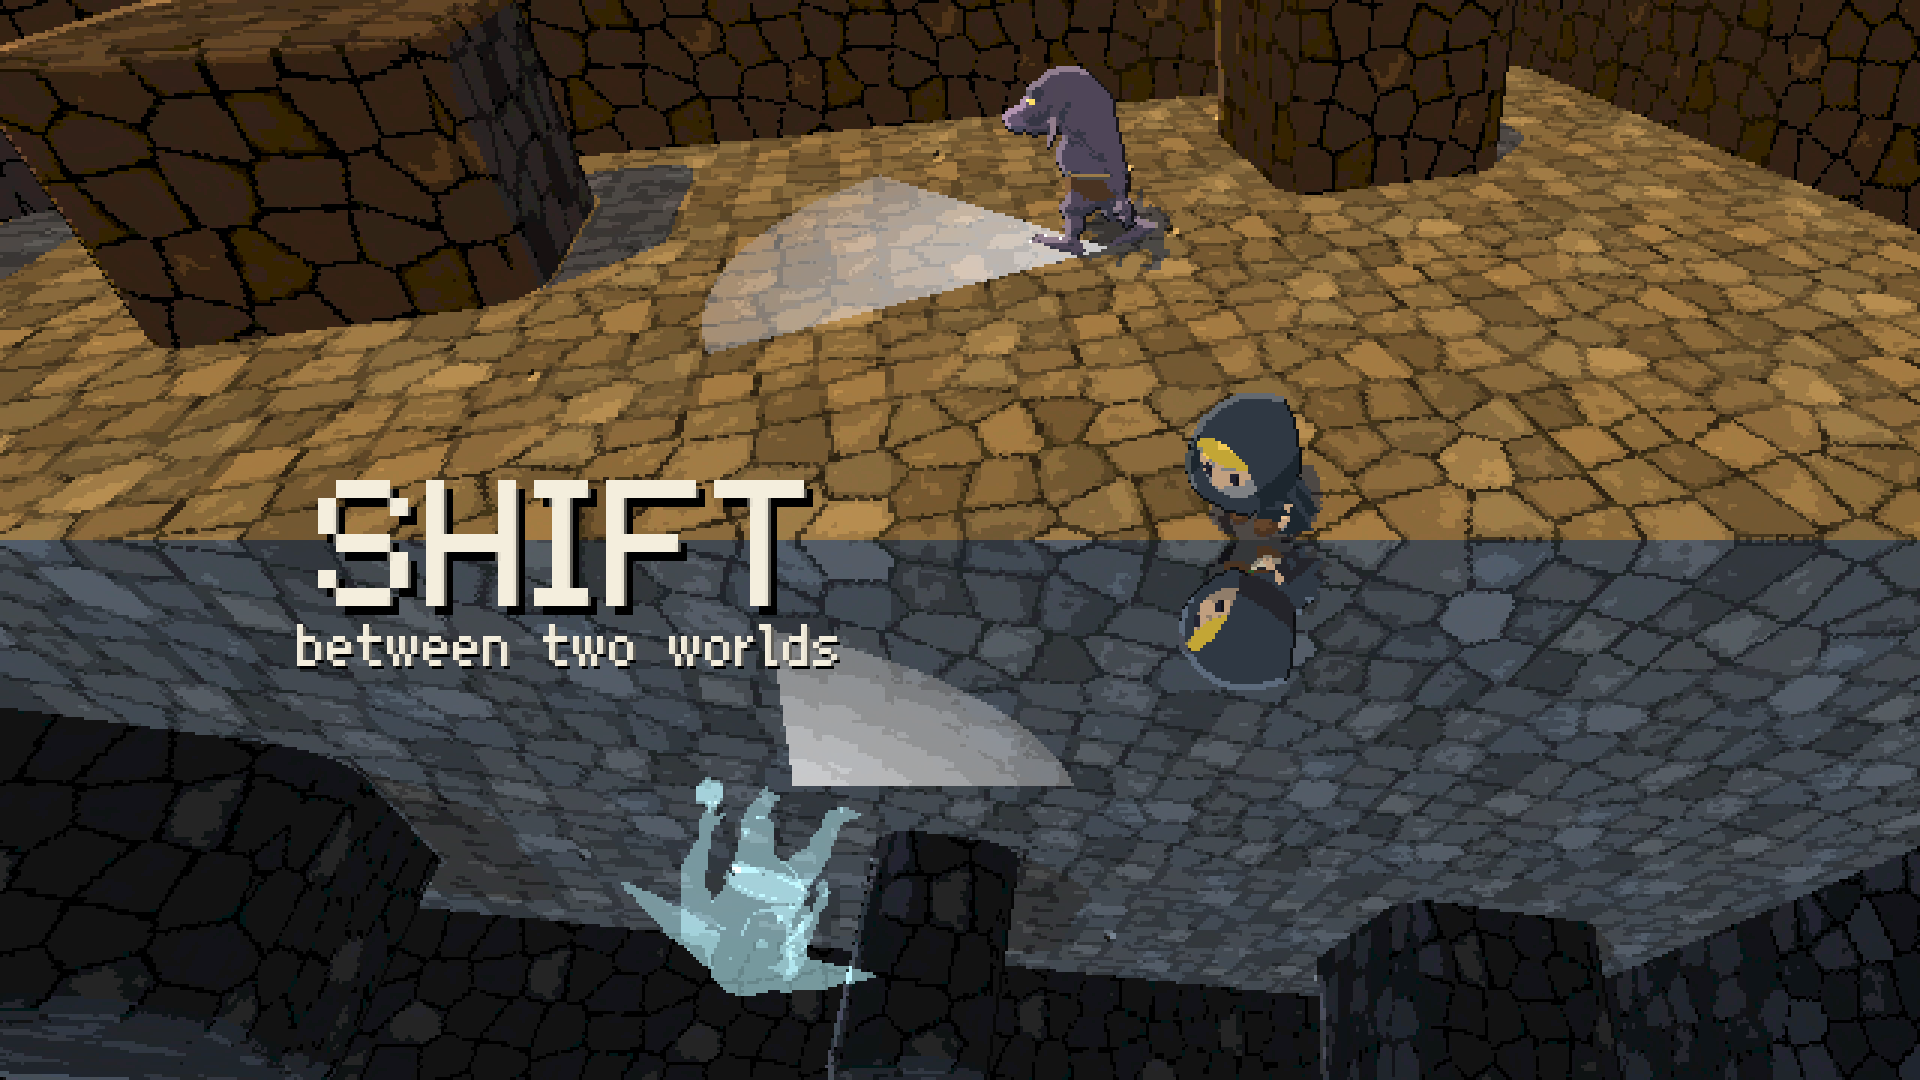
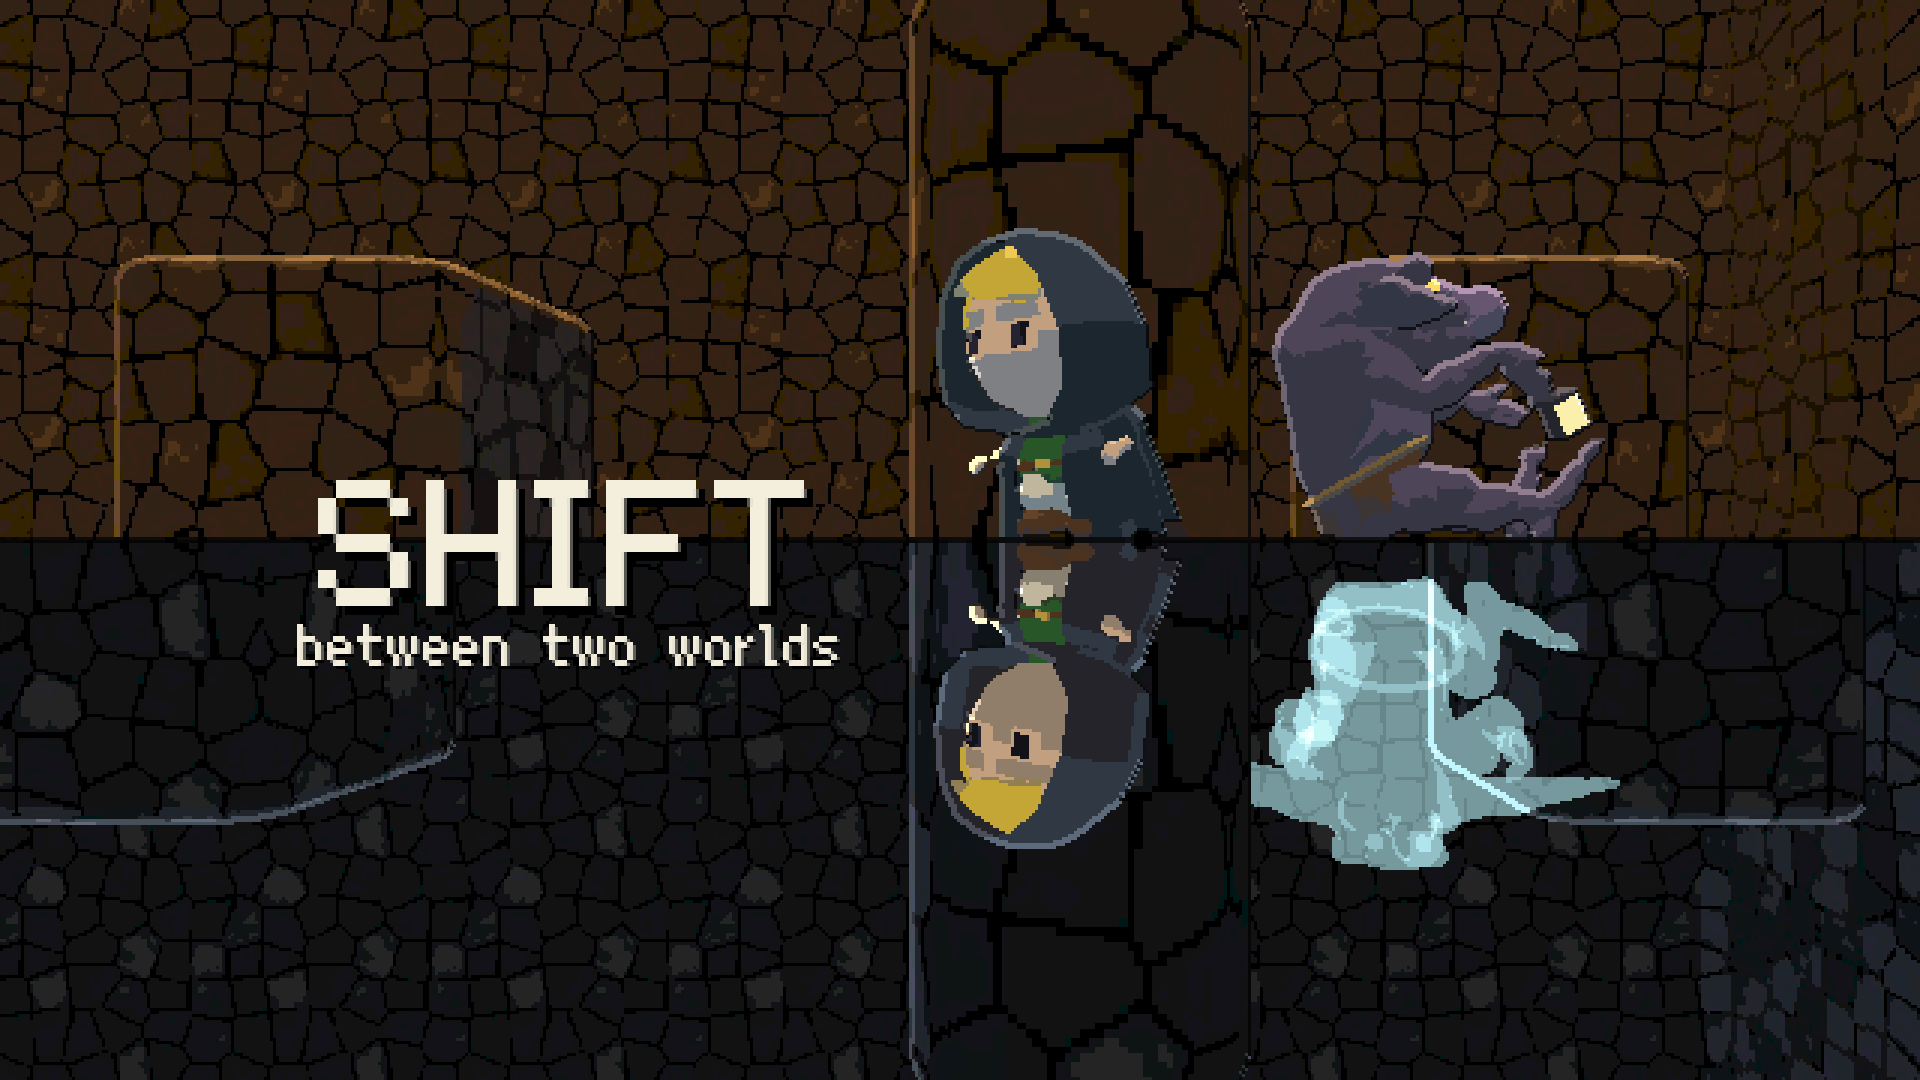
feat: shoot the cover from the floor, the hero against a pillar
- the camera sits on the floor looking straight along the grid, so each floor is one level line and the two meet at the seam
- the hero crouches against a pillar near the middle, with their reflection under the seam
- on the surface a troll sits with its back to the same pillar, legs out, looking right; the troll has no sitting clip, so the studio folds its legs over its idle every frame
- in the underside a ghost stands at the pillar looking out toward us
- the room is wider, so the left wall stays out of the picture
- the README describes the new picture

diff --git a/src/cover/main.ts b/src/cover/main.ts
@@ -2,82 +2,129 @@
  * Cover studio (cover.html, driven by scripts/cover.ts): the itch.io and README cover art, shot through the game's own
  * GameView so the walls, vision cones, outlines and rim light are exactly the ones in play.
  *
- * The picture is the two dimensions back to back. The top half is the surface (A): the hero, cloaked and crouching
- * near the seam, with a troll walking off behind them, its lantern's cone laid out ahead of it. The bottom half is the
- * underside (B) seen the same way and flipped upside down, so the two heroes meet feet to feet at the seam like a
- * reflection; there a ghost troll's cone reaches toward the hero and falls short. SHIFT and "between two worlds" sit
- * on the seam, left of the hero.
+ * The picture is the two dimensions back to back, seen from the floor itself (eye on the ground, no pitch, no yaw), so
+ * each floor is one flat line and the two meet at the seam. The top
+ * half is the surface (A): the hero, cloaked and crouching, keeps their back to a pillar while a troll walks off
+ * behind, its lantern's cone laid out ahead of it. The bottom half is the underside (B) seen the same way and flipped
+ * upside down, so the two heroes meet feet to feet at the seam like a reflection, each against their own pillar;
+ * there a ghost troll's cone reaches toward the hero and falls short. SHIFT and "between two worlds" sit on the seam,
+ * left of the hero.
  *
  * Each half is a frame of one hand-made level (not in levels/, so it is never played), rendered one screen pixel per
  * art pixel and cropped to place the hero; the halves, the title and the scale-up are composed on a 2D canvas.
  * window.cover.shoot(layout, scale) returns the finished PNG as a data URL.
  */
+import { PropertyBinding, Quaternion, Vector3, type Object3D } from 'three';
 import { parseLevel, type DimIndex, type Level } from '../core/level';
 import { Sim } from '../core/sim';
-import { loadModels } from '../render/models';
+import { loadModels, type CharacterInstance } from '../render/models';
 import { GameView } from '../render/view';
 
 /** The stage, both dimensions the same size: an open room, so the cones lie across bare floor. The hero stands at
  *  HERO in both, facing HERO_FACING; the pillars differ, as walls do between the dimensions in play. */
-const HERO: [number, number] = [8.5, 7.5];
-const HERO_FACING = (150 * Math.PI) / 180;
+const HERO: [number, number] = [12.5, 7.35];
+const HERO_FACING = (130 * Math.PI) / 180;
 const LEVEL = {
   format: 1,
   id: 'cover',
   name: 'cover',
-  size: { w: 15, h: 12 },
+  size: { w: 19, h: 12 },
   dimensions: [
     {
       rows: [
-        '###############',
-        '#.............#',
-        '#..##.....##..#',
-        '#..##.....##..#',
-        '#.............#',
-        '#.............#',
-        '#.............#',
-        '#.............#',
-        '#.............#',
-        '#.............#',
-        '#.....S.......#',
-        '###############',
+        '###################',
+        '#.................#',
+        '#......##.....##..#',
+        '#......##.....##..#',
+        '#.................#',
+        '#.................#',
+        '#...........#.....#',
+        '#.................#',
+        '#.................#',
+        '#.................#',
+        '#.........S.......#',
+        '###################',
       ],
       props: {},
-      // walking away from the hero toward the left, its cone stretched out ahead of it
-      monsters: [{ id: 'a', path: [[8, 4]], mode: 'pingpong', speed: 1.6, pause: 0.6, viewRadius: 5, viewAngle: 70, facing: 200 }],
+      // sitting on the floor with its back to the hero's pillar, looking off to the right, legs out ahead of it
+      monsters: [{ id: 'a', path: [[13, 6]], mode: 'pingpong', speed: 1.6, pause: 0.6, viewRadius: 5, viewAngle: 70, facing: 10 }],
     },
     {
       rows: [
-        '###############',
-        '#.............#',
-        '#.##...#...##.#',
-        '#.##...#...##.#',
-        '#.............#',
-        '#.............#',
-        '#.............#',
-        '#.............#',
-        '#.............#',
-        '#.............#',
-        '#.............#',
-        '###############',
+        '###################',
+        '#.................#',
+        '#.....##.......##.#',
+        '#.....##.......##.#',
+        '#.................#',
+        '#.................#',
+        '#...........#.....#',
+        '#.................#',
+        '#.................#',
+        '#.................#',
+        '#.................#',
+        '###################',
       ],
       props: {},
-      // a ghost on the far side, its cone swept toward the hero and falling just short
-      monsters: [{ id: 'b', path: [[6, 4]], mode: 'pingpong', speed: 1.6, pause: 0.6, viewRadius: 3.5, viewAngle: 70, facing: 56 }],
+      // a ghost standing at the hero's pillar, looking out toward us, over the hero
+      monsters: [{ id: 'b', path: [[13, 6]], mode: 'pingpong', speed: 1.6, pause: 0.6, viewRadius: 5, viewAngle: 70, facing: 100 }],
     },
   ],
 };
 
+/** Where each monster stands, off the cell centres its path allows: right up against the pillar (whose right face is
+ *  x = 13). */
+const MONSTER_AT: Record<string, [number, number]> = { a: [13.4, 6.5], b: [13.45, 6.5] };
+
+/** The troll has no sitting clip: SIT poses it over its idle, every frame after the mixer. The body drops by `drop`;
+ *  each thigh swings forward and each shin back (radians, about the troll's own left-right axis). */
+const SIT = { who: 'a', drop: 0, thigh: 0.75, shin: 0.5 };
+const _q = new Quaternion();
+const _p = new Quaternion();
+const _axis = new Vector3();
+
+/** Turn a bone about a world axis, keeping its parent where it is. */
+function turnBone(bone: Object3D, axis: Vector3, angle: number): void {
+  bone.parent!.getWorldQuaternion(_p);
+  _q.setFromAxisAngle(axis, angle);
+  // local' = parent⁻¹ · q · parent · local
+  bone.quaternion.premultiply(_p.clone().invert().multiply(_q).multiply(_p));
+  bone.updateMatrixWorld(true);
+}
+
+/** Seat a troll: after its own update each frame, lower it and fold its legs. The idle clip does not move the legs,
+ *  so they are put back to their rest pose first; otherwise the turns would pile up frame on frame. */
+function seat(body: CharacterInstance): void {
+  const root = body.root;
+  // the loader drops the dots from Blender's bone names (thigh.L -> thighL)
+  const bone = (name: string) => root.getObjectByName(PropertyBinding.sanitizeNodeName(name))!;
+  const legs = ['L', 'R'].map((side) => ({ thigh: bone(`thigh.${side}`), shin: bone(`shin.${side}`) }));
+  const rest = legs.map((l) => [l.thigh.quaternion.clone(), l.shin.quaternion.clone()]);
+  const update = body.update.bind(body);
+  body.update = (dt: number) => {
+    update(dt);
+    root.position.y -= SIT.drop;
+    root.updateMatrixWorld(true);
+    // the model faces +x, so its left-right axis is its z
+    _axis.set(0, 0, 1).applyQuaternion(root.getWorldQuaternion(new Quaternion()));
+    legs.forEach((l, i) => {
+      l.thigh.quaternion.copy(rest[i][0]);
+      l.shin.quaternion.copy(rest[i][1]);
+      l.thigh.updateMatrixWorld(true);
+      turnBone(l.thigh, _axis, SIT.thigh);
+      turnBone(l.shin, _axis, SIT.shin);
+    });
+  };
+}
+
 /** One half of the picture: which dimension, the camera, and where in the rendered frame the half is cut from. */
 interface Half {
   dim: DimIndex;
-  /** Grid angle the camera looks along (radians), and its pitch above the ground (degrees, 8..80). */
-  yaw: number;
-  elev: number;
-  /** Boom length (CAMERA.minDistance..distance). */
+  /** The camera looks level along the grid's -y (no pitch, no yaw), from `dist` in front of the hero at height
+   *  `eye`; at 0 it sits on the floor, which then shows as one level line through the hero's feet. */
+  eye: number;
   dist: number;
   /** Rendered frame, art pixels: its height sets how large things are (the camera's field of view spans it). The
-   *  camera aims at the hero, so the hero is at its centre; the half is cut from it round that. */
+   *  half is cut from it round the hero's feet. */
   frame: [number, number];
 }
 
@@ -87,7 +134,7 @@ interface Layout {
   h: number;
   /** Where the seam runs, art pixels from the top. */
   seam: number;
-  /** Where the camera's aim on the hero (mid-body) lands in the top half; the bottom half mirrors it about the seam. */
+  /** Where the hero's feet land in the top half; the bottom half mirrors it about the seam. */
   hero: [number, number];
   top: Half;
   bottom: Half;
@@ -98,25 +145,24 @@ interface Layout {
 
 const LAYOUTS: Record<string, Layout> = {
   itch: {
-    w: 315, h: 250, seam: 125, hero: [225, 88],
-    top: { dim: 0, yaw: -Math.PI / 2 + 0.35, elev: 32, dist: 3.8, frame: [460, 230] },
-    bottom: { dim: 1, yaw: -Math.PI / 2 + 0.35, elev: 32, dist: 3.8, frame: [460, 230] },
-    title: { size: 40, x: 90, y: 140 },
-    sub: { size: 10, x: 90, y: 152 },
+    w: 315, h: 250, seam: 125, hero: [165, 125],
+    top: { dim: 0, eye: 0, dist: 2.4, frame: [460, 250] },
+    bottom: { dim: 1, eye: 0, dist: 2.4, frame: [460, 250] },
+    title: { size: 40, x: 82, y: 140 },
+    sub: { size: 10, x: 82, y: 152 },
   },
   wide: {
-    w: 640, h: 360, seam: 180, hero: [420, 127],
-    top: { dim: 0, yaw: -Math.PI / 2 + 0.35, elev: 32, dist: 3.8, frame: [840, 330] },
-    bottom: { dim: 1, yaw: -Math.PI / 2 + 0.35, elev: 32, dist: 3.8, frame: [840, 330] },
+    w: 640, h: 360, seam: 180, hero: [360, 180],
+    top: { dim: 0, eye: 0, dist: 2.4, frame: [840, 360] },
+    bottom: { dim: 1, eye: 0, dist: 2.4, frame: [840, 360] },
     title: { size: 60, x: 190, y: 202 },
     sub: { size: 20, x: 190, y: 222 },
   },
 };
 
 const STEP = 1 / 60;
-/** Frames run before a shot: the camera and the animations settle; the monsters walk the last WALK of them. */
+/** Frames run before a shot, for the animations to settle. */
 const FRAMES = 150;
-const WALK = 60;
 
 let view: GameView;
 let level: Level;
@@ -127,38 +173,33 @@ function half(h: Half, w: number, hh: number, at: [number, number]): HTMLCanvasE
   sim.dim = h.dim;
   [sim.x, sim.y] = HERO;
   sim.sneaking = true;
-  sim.moving = true;
+  // crouched still against the pillar, out of sight
+  sim.moving = false;
   sim.facing = HERO_FACING;
+  for (const m of sim.monsters) [m.x, m.y] = MONSTER_AT[m.def.id] ?? [m.x, m.y];
   view.setSim(sim);
+  for (const mv of (view as unknown as { monsters: { state: { def: { id: string } }; body: CharacterInstance }[] }).monsters)
+    if (mv.state.def.id === SIT.who) seat(mv.body);
   view.pipeline.pixelSize = 1;
   const size = view.pipeline.resize(h.frame[0], h.frame[1]);
-  view.follow.setViewport(size.w, size.h);
-  view.follow.yaw = h.yaw;
-  view.follow.tilt(-10);
-  view.follow.tilt(((h.elev - 8) * Math.PI) / 180);
-  view.follow.zoom(50);
-  view.follow.zoom(Math.log(h.dist / 5.2) / Math.log(1.15));
-  for (let i = 0; i < FRAMES; i++) {
-    if (i >= FRAMES - WALK) {
-      for (const m of sim.monsters) {
-        m.x += Math.cos(m.angle) * m.def.speed * STEP;
-        m.y += Math.sin(m.angle) * m.def.speed * STEP;
-      }
-    } else if (i === 0) {
-      // start each monster WALK frames back, so it ends on its path point
-      for (const m of sim.monsters) {
-        m.x -= Math.cos(m.angle) * m.def.speed * STEP * WALK;
-        m.y -= Math.sin(m.angle) * m.def.speed * STEP * WALK;
-      }
-    }
-    view.frame(STEP);
-  }
+  const follow = view.follow;
+  follow.setViewport(size.w, size.h);
+  // the game's camera always looks down (8° at least): stand in a level one, aimed straight along -y
+  follow.distance = h.dist;
+  follow.update = () => {
+    follow.camera.position.set(HERO[0], h.eye, HERO[1] + h.dist);
+    follow.camera.lookAt(HERO[0], h.eye, HERO[1]);
+    follow.camera.updateMatrixWorld();
+    follow.subpixel.x = follow.subpixel.y = 0;
+  };
+  for (let i = 0; i < FRAMES; i++) view.frame(STEP);
   // read the WebGL canvas in the same task as the render, before its buffer is cleared
   const out = document.createElement('canvas');
   out.width = w;
   out.height = hh;
-  const x = h.frame[0] / 2 - at[0];
-  const y = h.frame[1] / 2 - at[1];
+  const feet = new Vector3(HERO[0], 0, HERO[1]).project(follow.camera);
+  const x = Math.round((feet.x * 0.5 + 0.5) * h.frame[0]) - at[0];
+  const y = Math.round((0.5 - feet.y * 0.5) * h.frame[1]) - at[1];
   if (x < 0 || y < 0 || x + w > h.frame[0] || y + hh > h.frame[1]) throw new Error(`frame ${h.frame} too small for the crop`);
   out.getContext('2d')!.drawImage(view.pipeline.canvas, -x, -y);
   return out;
